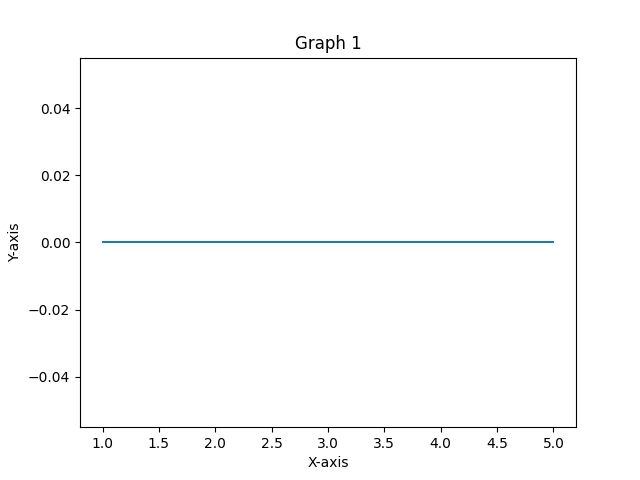
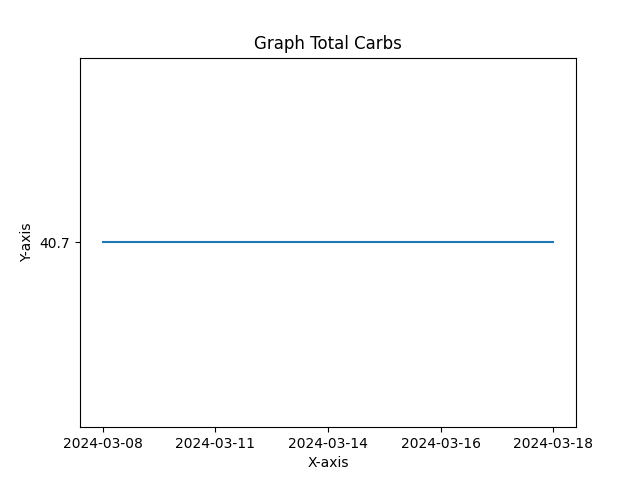
generation-pdf

diff --git a/app/templates/base.html b/app/templates/base.html
@@ -76,7 +76,7 @@
             >
             <a
               class="text-sm font-medium text-grey-900 hover:text-purple-700"
-              href="plan.html"
+              href="{{ url_for('generate_analysis') }}"
               >Report Generation</a
             >
             <a
@@ -122,7 +122,7 @@
             >
             <a
               class="text-sm font-medium text-grey-900 hover:text-purple-700"
-              href="plan.html"
+              href="{{ url_for('generate_analysis') }}"
               >Report Generation</a
             >
             <a

diff --git a/app/befit_utils.py b/app/befit_utils.py
@@ -1,7 +1,9 @@
 # Util Contents
 import os
 import csv
+import matplotlib
 import matplotlib.pyplot as plt
+matplotlib.use('agg')
 from reportlab.lib import colors
 from reportlab.lib.pagesizes import letter
 from reportlab.platypus import SimpleDocTemplate, Paragraph, Spacer, Image
@@ -142,24 +144,66 @@ class BFUtils:
                 
             return False
         
-    def generate_graphs(x, y):
-        for i in range(3):
-            fig, ax = plt.subplots()
-            # x = [1, 2, 3, 4, 5]
-            # y = [i * val for val in x]
-            ax.plot(x, y)
-            ax.set_xlabel('X-axis')
-            ax.set_ylabel('Y-axis')
-            ax.set_title(f'Graph {i + 1}')
+    def generate_graphs(x, y, title, ylabel):
+        plt.plot(x, y)
+        plt.title("Linear Graph")
+        plt.ylabel(ylabel)
+        plt.xlabel("Dates")
+        temp_fname = f"{ylabel}_plot.png"
+        plt.savefig(temp_fname)
+        plt.close()
+        # for i in range(3):
+        #     fig, ax = plt.subplots()
+        #     # x = [1, 2, 3, 4, 5]
+        #     # y = [i * val for val in x]
+        #     ax.plot(x, y)
+        #     ax.set_xlabel('X-axis')
+        #     ax.set_ylabel('Y-axis')
+        #     ax.set_title(f'Graph {title}')
             
-            # Save the Matplotlib figure to a temporary file
-            temp_filename = f'temp_plot_{i}.png'
-            plt.savefig(temp_filename)
+        #     # Save the Matplotlib figure to a temporary file
+        #     temp_filename = f'temp_plot_{i}.png'
+        #     plt.savefig(temp_filename)
             
-            # Add the Matplotlib figure to the PDF as an image
+        #     # Add the Matplotlib figure to the PDF as an image
            
-            plt.close()
+        #     plt.close()
+    
+    def get_calories(data):
+        flag = []
+        for entry in data:
+            flag.append(entry[1])
         
+        return flag
+    
+    def get_carbs(data):
+        flag = []
+        for entry in data:
+            flag.append(entry[2])
+        
+        return flag
+    
+    def get_fat(data):
+        flag = []
+        for entry in data:
+            flag.append(entry[3])
+        
+        return flag
+    
+    def get_sugar(data):
+        flag = []
+        for entry in data:
+            flag.append(entry[4])
+        
+        return flag
+
+    def get_cholestrol(data):
+        flag = []
+        for entry in data:
+            flag.append(entry[5])
+        
+        return flag
+    
     def generate_pdf(filename):
                 # initializing variables with values
         fileName = filename
@@ -170,7 +214,11 @@ class BFUtils:
             'Technology makes us aware of',
             'the world around us.',
         ]
-        image = '../static/logo-4.png'
+        image1 = 'calories_plot.png'
+        image2 = 'carbohydrates.png'
+        image3 = 'fat_plot.png'
+        image4 = 'sugar_plot.png'
+        image5 = 'cholestrol_plot.png'
         
         # creating a pdf object
         pdf = canvas.Canvas(fileName)

diff --git a/app/main.py b/app/main.py
@@ -3,6 +3,7 @@ from curses import flash
 from datetime import datetime, timedelta
 import requests
 import json
+import numpy as np
 from flask import Flask, render_template, request, url_for, flash, redirect, session
 from werkzeug.exceptions import abort
 # custom mods
@@ -236,7 +237,7 @@ def generate_analysis():
             print(f"{date1}  {date2}")
             start_date = datetime.strptime(date1, "%Y-%m-%d")
             end_date = datetime.strptime(date2, "%Y-%m-%d")
-            
+
             # Generate dates between start_date and end_date
             dates_in_between = []
             current_date = start_date
@@ -247,14 +248,45 @@ def generate_analysis():
             print(dates_in_between)
             
             total_user_intake = BFUtils.load_user_intake(user_data._email)
-            print(total_user_intake)
+            print(len(total_user_intake))
+            
             index = 0
             
-            for date in dates_in_between:
-                if date == total_user_intake[index][0]:
-                    
-                    index+=1
-                                
+            ranged_intake=[]
+            ranged_dates = []
+            for intake in total_user_intake:
+                # s1 = intake[0]
+                # print(f"{intake[0]} : {intake[1]}")
+                # s2 = dates_in_between[index]
+                # print(dates_in_between[index])
+                for date in dates_in_between:
+                    if intake[0] == date:
+                        print("intake.....step")
+                        ranged_intake.append(intake)
+                        ranged_dates.append(date)
+                        
+            print(ranged_intake)
+            print(ranged_dates)
+            mat = np.array(ranged_dates)
+            calorie_points = np.array(BFUtils.get_calories(ranged_intake))
+            carbs_points = np.array(BFUtils.get_carbs(ranged_intake))
+            fat_points = np.array(BFUtils.get_fat(ranged_intake))
+            sugar_points = np.array(BFUtils.get_sugar(ranged_intake))
+            choles_points = np.array(BFUtils.get_cholestrol(ranged_intake))
+            print(calorie_points) 
+            print(carbs_points)
+            print(fat_points)
+            print(sugar_points)
+            print(choles_points)
+            calorie_fat = BFUtils.get_fat(ranged_intake)
+            carbs_cholestrol = BFUtils.get_cholestrol(ranged_intake)
+            p1 = BFUtils.generate_graphs(mat, calorie_points, "Total Calories", "calories")
+            p2 = BFUtils.generate_graphs(mat, carbs_points, "Total Carbs", "carbohydrates")
+            p3 = BFUtils.generate_graphs(mat, fat_points, "Total Fat", "fat")
+            p4 = BFUtils.generate_graphs(mat, sugar_points, "Total Sugar", "Sugar")
+            p5 = BFUtils.generate_graphs(mat, choles_points, "Total Cholestrol", "Cholestrol")
+            
+
             
     return render_template('generate-pdf.html', logged_in=logged_in)
 
